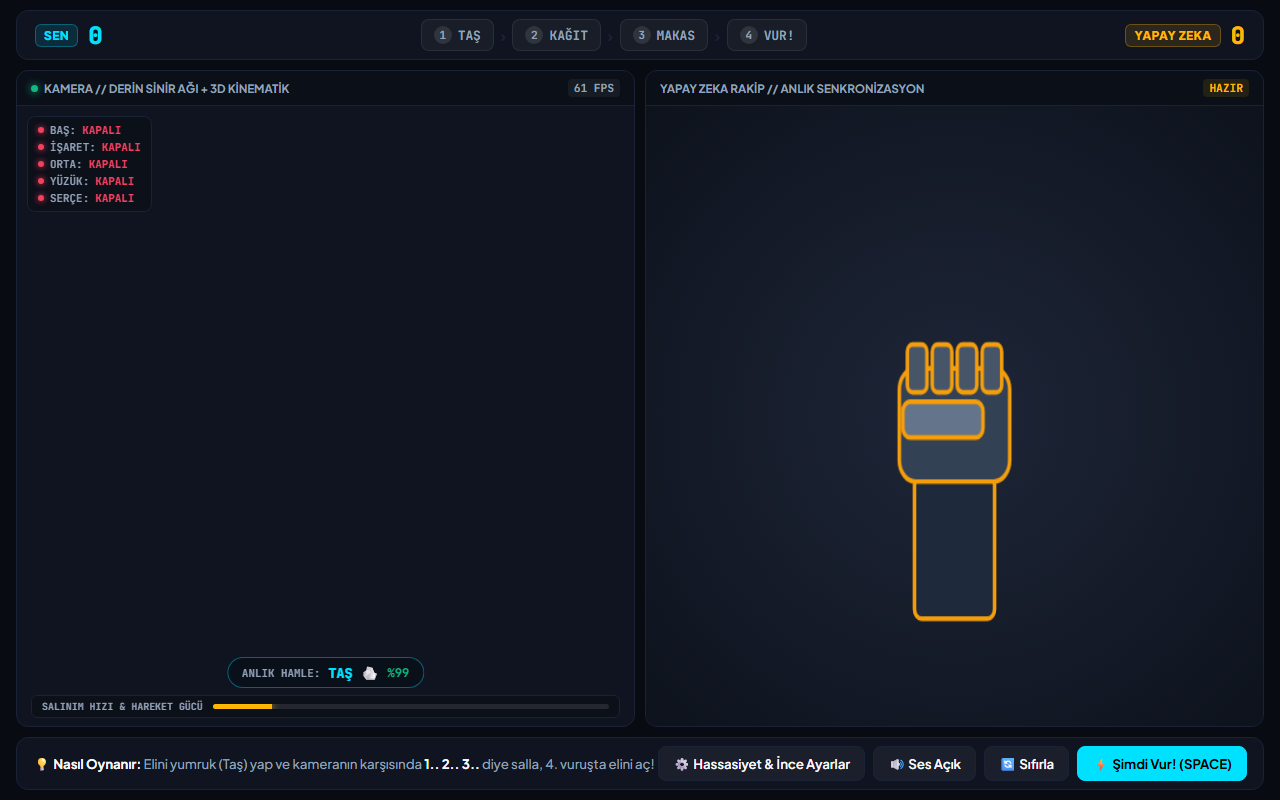
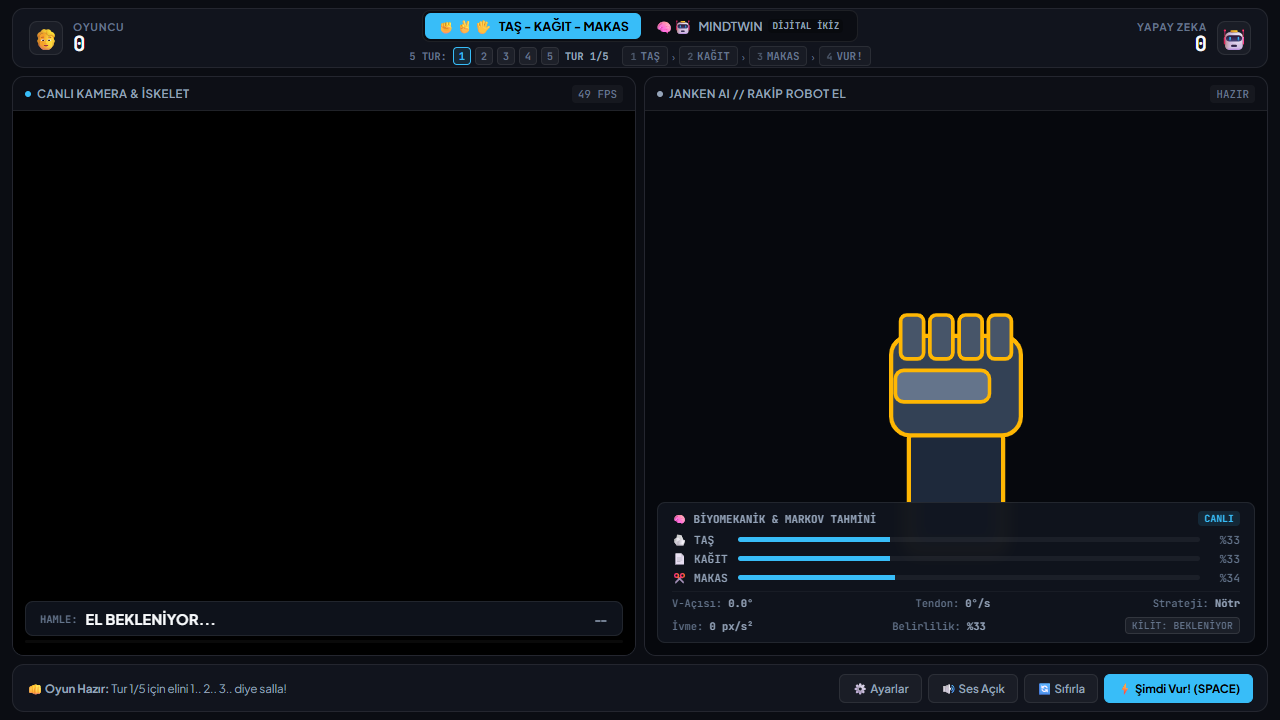
feat(beatter): update beaTTer v2.5 highlights, real-time in-air prediction and screenshot

diff --git a/src/app/projects.ts b/src/app/projects.ts
@@ -90,23 +90,23 @@ export const projects: Project[] = [
     title: "beaTTer",
     hook: "360° biyomekanik ve dijital ikizle insanlara karşı asla kaybetmeyen Taş-Kağıt-Makas & MINDTWIN zihin okuma arenası.",
     description:
-      "Tokyo Üniversitesi Janken Robotu ve Zhejiang Üniversitesi bilişsel oyun teorisi deneylerinden ilham alan çift modlu arena: Klasik Taş-Kağıt-Makas'ın yanı sıra, kullanıcının parmak ekstansör ivmesinden niyetini 180ms önce simüle eden mekanik dijital ikiz oyunu 'MINDTWIN' (Tek mi Çift mi Düellosu).",
+      "Tokyo Üniversitesi Janken Robotu ve Zhejiang Üniversitesi bilişsel oyun teorisi deneylerinden ilham alan çift modlu arena: 4. iniş vuruşunda parmak tendonlarının havadaki ilk açılma ivmesini (-140ms) sezerek anında karşı hamleyi fırlatan Janken AI ve kullanıcının 5 parmak eklem ivmesini önceden simüle eden mekanik dijital ikiz 'MINDTWIN'.",
     platform: "Web (Tarayıcı & Mobil Kamera) + Donanım (Arduino Robot Kol)",
-    status: "Canlı Web Sürümü · v2.1",
+    status: "Canlı Web Sürümü · v2.5",
     role: "Biyomekanik modelleme · Computer Vision & ML · UI/UX & WebRTC",
     tools: [
-      "MediaPipe",
-      "TensorFlow/Tasks Vision",
+      "MediaPipe Tasks",
+      "TensorFlow XNNPACK",
       "Web Audio API",
-      "HTML5 Canvas",
+      "HTML5 Canvas 2D",
       "Python",
       "Arduino",
     ],
     highlights: [
-      "Taş-Kağıt-Makas: 360° koordinatsız 3D kinematik ve 50ms erken tendon tahmini",
-      "MINDTWIN: Kullanıcının hareketini bitirmeden 180ms önce simüle eden siber-mekanik dijital ikiz",
-      "Bilişsel Markov analitiği ve 5 turluk şampiyonluk serisi",
-      "Canlı telemetri, parmak ekstansör ivmesi ve Arduino robot kol senkronizasyonu",
+      "Taş-Kağıt-Makas: 4. vuruş inişinde havada -140ms erken tendon tespiti ve geç hamle (anti-feint) koruması",
+      "MINDTWIN: Kullanıcı hareketini bitirmeden 180ms önce simüle eden 60 FPS siber-mekanik dijital ikiz",
+      "Bilişsel Markov analitiği, Shannon entropisi ve kriptografik mühür (#BEAT) ile hilesiz dürüstlük kanıtı",
+      "Akıllı kamera kurtarma katmanı: Donanım kilitlenmelerinde anlık tek tıkla yeniden bağlanma",
     ],
     href: "https://beatter.vercel.app/",
     ctaLabel: "Arenada Oyna",
